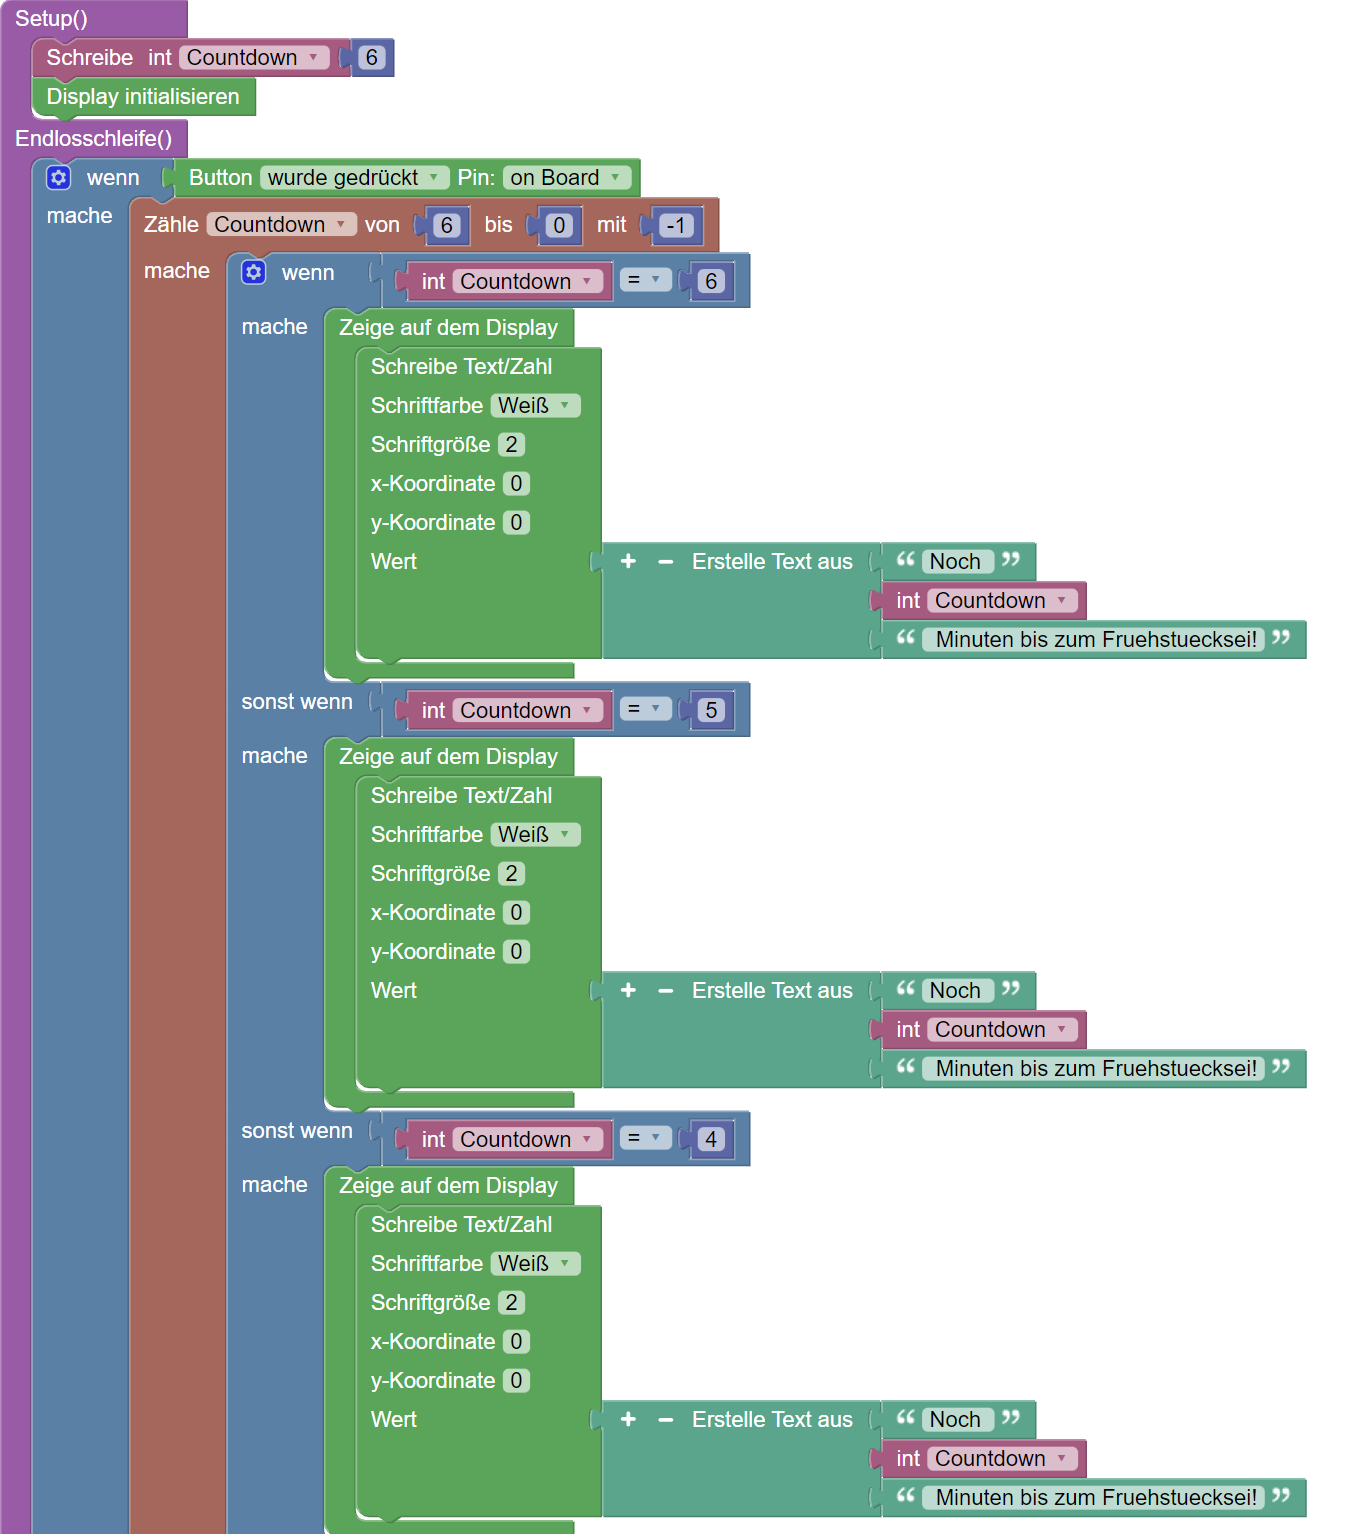
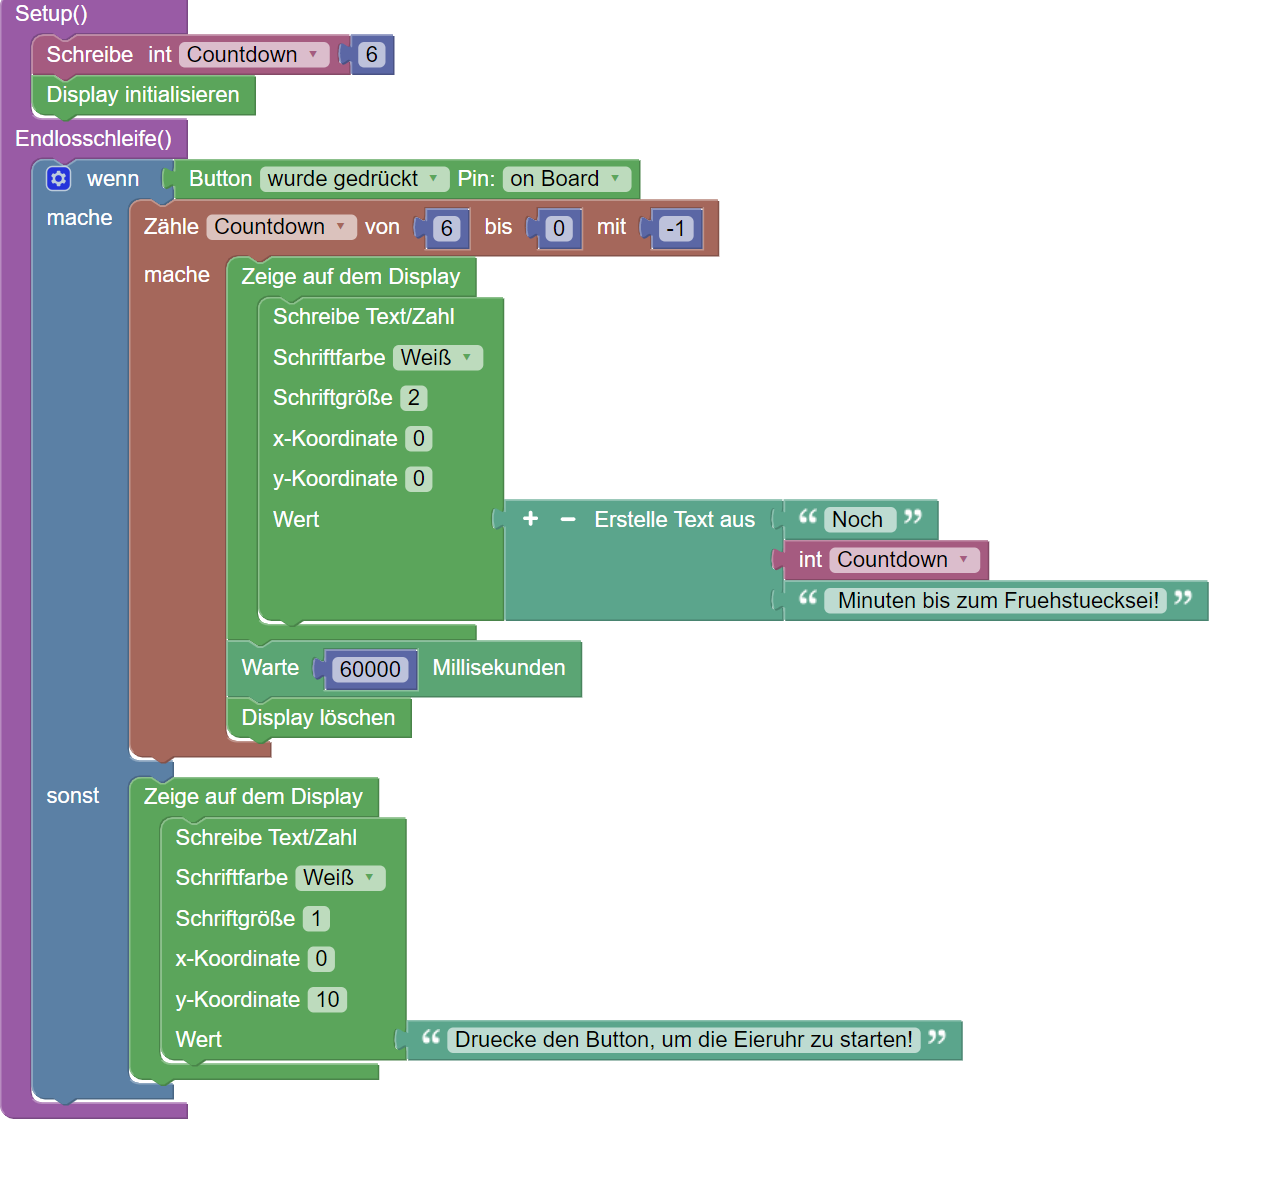
Update project - Eieruhr

diff --git a/_projects/de/2023-04-03-Eieruhr.md b/_projects/de/2023-04-03-Eieruhr.md
@@ -51,21 +51,21 @@ Damit der Countdown erst beginnt, wenn sich die Eier im kochenden Wasser befinde
 
 ### Schritt 3: Anzeige auf dem Display
 
-Mit dem Ablauf jeder Minute soll sich nun der Text auf dem Display ändern, sodass du einen Überblick über die verbleibende Kochzeit behältst. Dafür benötigst du wieder den wenn...mache Block. Über einen Klick auf das Zahnrädchen, kannst du diesen um beliebig viele  sonst wenn...mache-Blöcke erweitern. In der Abfrage der Bedingung überprüfst du nun, bei welcher Minute der Countdown aktuell steht und lässt diese auf dem Display anzeigen. Verwende dafür zum einen den Block zur Überprüfung der vergangenen Zeit, indem du die Variable 'Countdown' mit einer Minutenanzahl gleichsetzt sowie zum anderen die Anzeige auf dem Display. Den 'Erstelle Text aus' Block kannst du durch einen Klick auf das '+' um ein weiteres Textfeld ergänzen, sodass du eine Kombination aus Textbausteinen und der variablen Zeit auf dem Display anzeigen lassen kannst. Die Programmierung verhält sich für jede zusätzliche Minute, die der Countdown laufen soll, gleich und kann dementsprechend durch zusätzliche sonst wenn...mache Bedingungen ergänzt werden. 
+Mit dem Ablauf jeder Minute soll sich nun der Text auf dem Display ändern, sodass du einen Überblick über die verbleibende Kochzeit behältst. Dafür benötigst du Blöcke aus der Katgeorie 'Dispaly', wie 'Zeige auf dem Dispaly' und 'Schreibe Text/ Zahl'. Füge bei 'Wert' den 'Erstelle Text aus' Block ein. Diesen kannst du durch einen Klick auf das '+' um ein weiteres Textfeld ergänzen, sodass du eine Kombination aus Textbausteinen und der variablen Zeit auf dem Display anzeigen lassen kannst. Die Programmierung verhält sich für jede zusätzliche Minute, die der Countdown laufen soll, gleich und muss dementsprechend nicht angepasst werden. 
+Du solltest aber noch festlegen, in welchem Tempo dieser Programmcode wiederholt wird und dein Countdown runterzählt. In diesem Fall haben wir uns für einen minütlichen Countdown entschieden, weshalb ein Warteblock für 60.000 Millisekunden eingebaut wurde - auch diesen kannst du nnatürlich anpassen. Zudem sollte das Display nach jedem Programmdurchlauf gelöscht werden, sodass ausschließlich aktualisierte Werte angezeigt werden. 
 
 {% include image.html image=page.image3 %}
 
 ### Schritt 4: Ablauf des Countdowns
-Ist die letzte Minute des Countdowns abgelaufen, sollte ein Signal erklingen, sodass das Ei direkt aus dem kochenden Wasser entfernt wird. Nutze dafür erneut eine Schleife mit einer fünfmaligen Wiederholung und schalte den Piezo ein. Damit dieser keinen durchgängigen Ton abspielt, sondern piept, benötigst du zusätzliche Warte-Blöcke sowie einen Befehl, den Ton wieder auszuschalten.
-Abschließend solltest du noch festlegen, in welchem Tempo dieser Programmcode wiederholt wird und dein Countdown runterzählt. In diesem Fall haben wir uns für einen minütlichen Countdown entschieden, weshalb ein Warteblock für 60.000 Millisekunden eingebaut wurde - auch diesen kannst du nnatürlich anpassen. Zudem sollte das Display nach jedem Programmdurchlauf gelöscht werden, sodass ausschließlich aktualisierte Werte angezeigt werden.  
-
+Ist die letzte Minute des Countdowns abgelaufen, sollte ein Signal erklingen sowie ein Text mit dem Hinweis 'Das Fruehstuecksei ist fertig!' auf dem Dispaly angezeigt werden, sodass das Ei direkt aus dem kochenden Wasser entfernt wird. Dafür benötigst du die 'wenn...mache' Bedingung aus der Kategorie 'Logik'. So können, wenn der Countdown = 0 ist, die zuvor genannten Befehle ausgeführt werden. Ntze für die Befehle die Blöcke, um Text auf dem Dispaly anzeigen zu lasen sowie eine Schleife mit einer fünfmaligen Wiederholung, in der der Piezo eingeschaltet wird. Damit dieser keinen durchgängigen Ton abspielt, sondern piept, benötigst du zusätzliche Warte-Blöcke sowie einen Befehl, den Ton wieder auszuschalten.
+ 
 
 {% include image.html image=page.image4 %}
 
 Möchtest du dieses Projekt mit der senseBox MCU mini oder der senseBox:mini nutzen, ist das kein Problem! Werde kreativ und gebe statt des Piepens beispielsweise ein Lichtsignal mit der RGB-LED aus.
 
 
-Den gesamten Blockly-Sketch findest du [hier](https://blockly.sensebox.de/gallery/642add61d2853f0013b347ef).
+Den gesamten Blockly-Sketch findest du [hier](https://blockly.sensebox.de/gallery/642e7500d2853f0013b357e6).
 
 
 In diesem Sinne wünschen wir euch frohe Ostern und schöne Feiertage!
